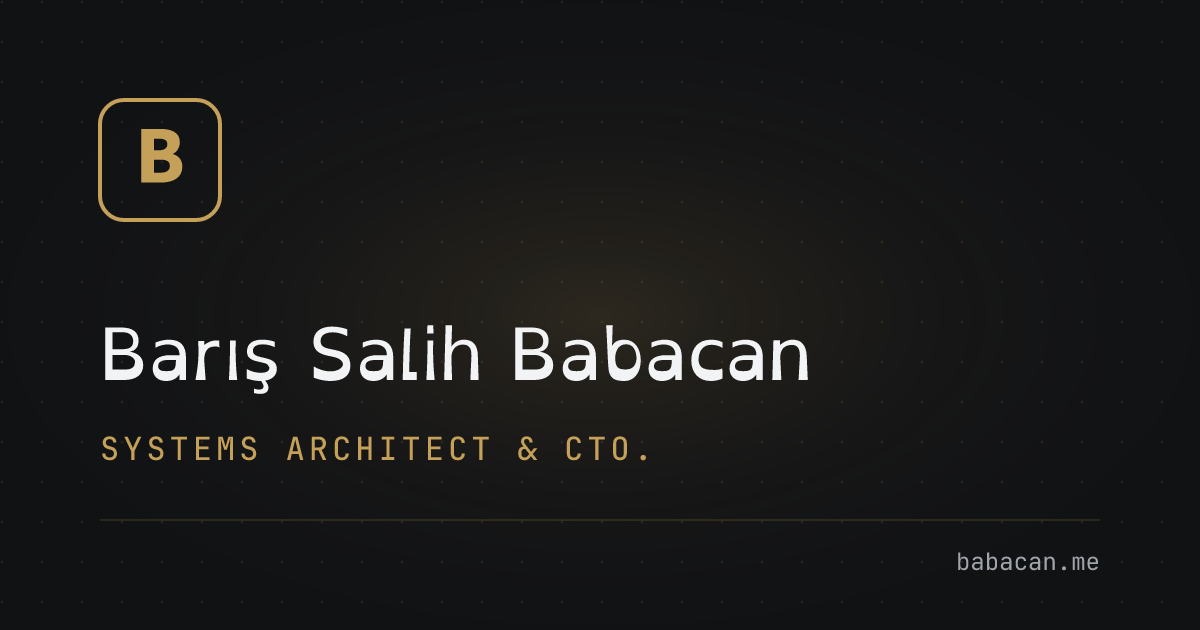
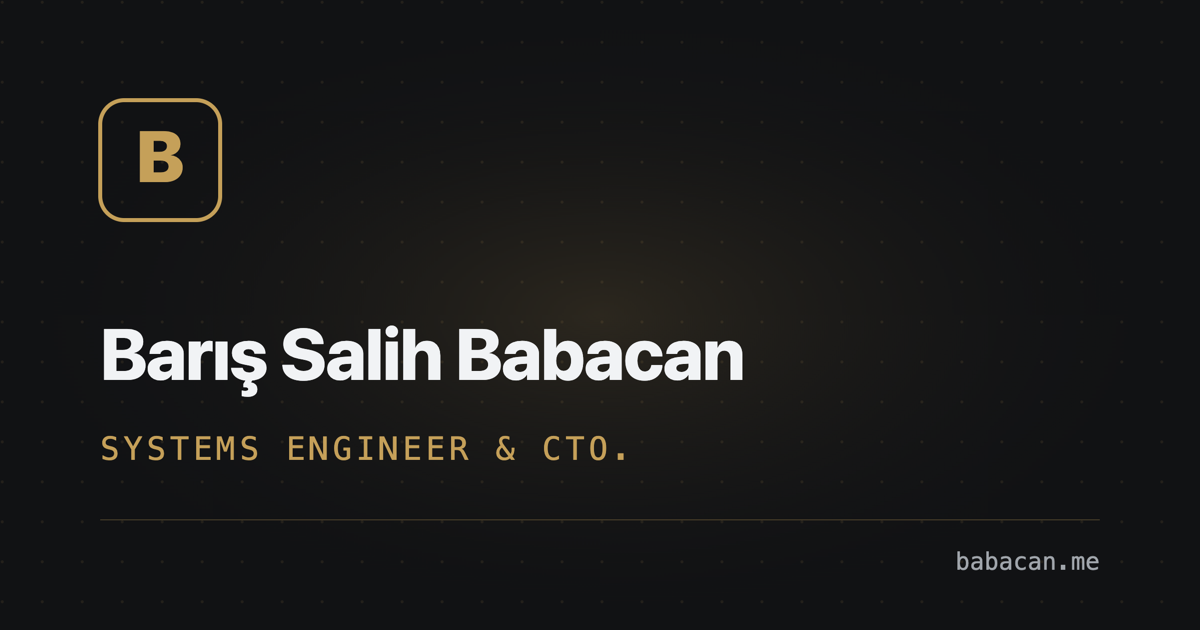
content: align site copy and metadata with the CV
The CV was narrowed three times on 18 Sep (scope, shared credit on +TV,
specific attribution for the Philips work). The site still carried the
claims those edits removed.

- Systems Architect -> Systems Engineer, matching the CV title
- drop "distributed P2P systems" and CRDT claims: the CV states Osmos
  peer-to-peer sync is planned and its transport crate unimplemented
- replace unverifiable hero stats (5+ years, 100% offline-first, P2P)
  with figures the CV supports: 6 shipped products, 3 reverse-engineered
  TV protocols, 120-150 daily users over 3 years, 0 unsafe blocks
- surface protocol reverse engineering, the CV's most distinctive work,
  which the site did not mention at all
- correct the CTO row's stack tags to Swift/SwiftUI/Firebase
- regenerate the social card, which read "SYSTEMS ARCHITECT & CTO"

Claude-Session: https://claude.ai/code/session_014CFco9VVJRnA4MEc93z5uU

diff --git a/src/data/i18nData.ts b/src/data/i18nData.ts
@@ -12,26 +12,26 @@ export const i18nData: I18nNode = {
   },
   seo: {
     title: {
-      en: "Barış Salih Babacan | Systems Architect & CTO Istanbul",
-      tr: "Barış Salih Babacan | Sistem Mimarı & CTO Istanbul",
+      en: "Barış Salih Babacan | Systems Engineer & CTO Istanbul",
+      tr: "Barış Salih Babacan | Sistem Mühendisi & CTO Istanbul",
     },
     description: {
-      en: "Barış Salih Babacan | Systems Architect & CTO in Istanbul. Specializing in distributed P2P systems, offline-first architectures & digital experiences.",
-      tr: "Barış Salih Babacan | İstanbul merkezli Sistem Mimarı & CTO. Dağıtık P2P sistemleri, çevrimdışı-öncelikli mimariler ve dijital deneyimler geliştirir.",
+      en: "Barış Salih Babacan | Systems Engineer and CTO in Istanbul. Local-first infrastructure in Rust, network protocol reverse engineering, and native iOS applications.",
+      tr: "Barış Salih Babacan | İstanbul merkezli Sistem Mühendisi & CTO. Rust ile yerel-öncelikli altyapı, ağ protokolü tersine mühendisliği ve native iOS uygulamaları.",
     },
   },
   hero: {
     roles: {
-      en: "CTO @ Garage.ist · Systems Architect",
-      tr: "Garage.ist CTO'su · Sistem Mimarı",
+      en: "CTO @ Garage.ist · Systems Engineer",
+      tr: "Garage.ist CTO'su · Sistem Mühendisi",
     },
     title: {
       en: 'Barış Salih<br /><em className="text-on-surface-variant font-normal not-italic">Babacan</em>',
       tr: 'Barış Salih<br /><em className="text-on-surface-variant font-normal not-italic">Babacan</em>',
     },
     subtitle: {
-      en: "Systems Architect & CTO. Building distributed P2P systems, resilient offline-first architectures, and interactive digital experiences.",
-      tr: "Sistem Mimarı & CTO. Dağıtık P2P sistemleri, çevrimdışı-öncelikli mimariler ve etkileşimli dijital deneyimler geliştiriyorum.",
+      en: "Systems engineer building local-first infrastructure in Rust. Production work spans embedded systems, network protocol reverse engineering, and native iOS applications.",
+      tr: "Rust ile yerel-öncelikli altyapı geliştiren sistem mühendisi. Üretim deneyimim gömülü sistemler, ağ protokolü tersine mühendisliği ve native iOS uygulamalarını kapsıyor.",
     },
     viewWork: {
       en: "Explore Work →",
@@ -41,23 +41,23 @@ export const i18nData: I18nNode = {
       en: "Contact",
       tr: "İletişim",
     },
-    stat1_val: { en: "5+", tr: "5+" },
-    stat1_lbl: { en: "YEARS EXP.", tr: "YIL DENEYİM" },
-    stat2_val: { en: "10+", tr: "10+" },
-    stat2_lbl: { en: "PROJECTS", tr: "PROJE" },
-    stat3_val: { en: "100%", tr: "%100" },
-    stat3_lbl: { en: "OFFLINE-FIRST", tr: "ÇEVRİMDİŞİ-ÖNCELİKLİ" },
-    stat4_val: { en: "P2P", tr: "P2P" },
-    stat4_lbl: { en: "ARCHITECTURE", tr: "MİMARİ" },
+    stat1_val: { en: "6", tr: "6" },
+    stat1_lbl: { en: "SHIPPED PRODUCTS", tr: "YAYINLANAN ÜRÜN" },
+    stat2_val: { en: "3", tr: "3" },
+    stat2_lbl: { en: "TV PROTOCOLS DECODED", tr: "ÇÖZÜLEN TV PROTOKOLÜ" },
+    stat3_val: { en: "120–150", tr: "120–150" },
+    stat3_lbl: { en: "DAILY USERS · 3 YEARS", tr: "GÜNLÜK KULLANICI · 3 YIL" },
+    stat4_val: { en: "0", tr: "0" },
+    stat4_lbl: { en: "UNSAFE BLOCKS", tr: "UNSAFE BLOK" },
     badge: {
       en: "Available for technical consulting & advisory",
       tr: "Teknik danışmanlık & mentörlük için uygun",
     },
-    titlePrefix: { en: "Systems Architect &", tr: "Sistem Mimarı &" },
+    titlePrefix: { en: "Systems Engineer &", tr: "Sistem Mühendisi &" },
     titleSuffix: { en: "Developer", tr: "Geliştirici" },
     subTitle: {
-      en: "CTO @ Garage.ist. Building resilient, offline-first P2P systems, high-throughput backend pipelines, and interactive digital narrative experiences.",
-      tr: "Garage.ist CTO'su. Dayanıklı, çevrimdışı-öncelikli P2P sistemler, yüksek verimli arka uç veri hatları ve etkileşimli dijital anlatı deneyimleri geliştiriyorum.",
+      en: "CTO @ Garage.ist. Shipping native iOS applications, reverse-engineering network protocols, and building local-first engines in Rust.",
+      tr: "Garage.ist CTO'su. Native iOS uygulamaları yayınlıyor, ağ protokollerini tersine mühendislikle çözüyor ve Rust ile yerel-öncelikli motorlar geliştiriyorum.",
     },
     downloadCV: { en: "Download CV", tr: "CV İndir" },
     exploreProjects: { en: "Explore Systems", tr: "Sistemleri İncele" },
@@ -72,38 +72,38 @@ export const i18nData: I18nNode = {
       tr: "Teknik Liderlik & CTO",
     },
     item1_desc: {
-      en: "Orchestrating system architecture, technology stack selection, and product engineering teams at Garage.ist.",
-      tr: "Garage.ist bünyesinde sistem mimarisi, teknoloji yığını seçimi ve ürün mühendisliği ekiplerini yönetiyorum.",
+      en: "Leading a two-developer team at Garage.ist: system architecture, stack decisions, and review discipline enforced through CI that blocks direct pushes to main.",
+      tr: "Garage.ist'te iki kişilik geliştirici ekibini yönetiyorum: sistem mimarisi, teknoloji seçimleri ve main dalına doğrudan push'u engelleyen CI ile işletilen code review disiplini.",
     },
     item2_title: {
       en: "Systems Programming & Rust",
       tr: "Sistem Programlama & Rust",
     },
     item2_desc: {
-      en: "Building memory-safe, low-latency, and high-performance native engines using Rust, Go, and C++.",
-      tr: "Rust, Go ve C++ kullanarak bellek güvenli, düşük gecikmeli ve yüksek performanslı çekirdek motorlar geliştiriyorum.",
+      en: "Building memory-safe native engines in Rust, Go and C++ — content-addressable storage keyed by BLAKE3, SQLite-backed indexes, and Unix-socket daemons.",
+      tr: "Rust, Go ve C++ ile bellek-güvenli native motorlar geliştiriyorum — BLAKE3 ile içerik-adresli depolama, SQLite tabanlı indeksler ve Unix soket servisleri.",
     },
     item3_title: {
-      en: "Local-First & P2P Protocols",
-      tr: "Çevrimdışı-Öncelikli & P2P Protokolleri",
+      en: "Local-First Engines",
+      tr: "Yerel-Öncelikli Motorlar",
     },
     item3_desc: {
-      en: "Designing conflict-free data structures (CRDTs) and local network synchronization algorithms for data sovereignty.",
-      tr: "Veri egemenliği için çakışmasız veri yapıları (CRDT'ler) ve yerel ağ senkronizasyon algoritmaları tasarlıyorum.",
+      en: "Osmos, a version control engine written as a three-crate Rust workspace with <strong>zero unsafe blocks</strong>; Mythos, a manuscript engine exposing 13 JSON-RPC methods across 82 tests.",
+      tr: "Osmos: üç crate'lik Rust workspace olarak yazılmış, <strong>sıfır unsafe blok</strong> içeren sürüm kontrol motoru. Mythos: 13 JSON-RPC metodu sunan, 82 testli manuscript motoru.",
     },
     item4_title: {
-      en: "Narrative & Systems Design",
-      tr: "Anlatı & Sistem Tasarımı",
+      en: "Protocol Reverse Engineering",
+      tr: "Protokol Tersine Mühendisliği",
     },
     item4_desc: {
-      en: "Architecting interactive worldbuilding tools, storytelling engines, and complex world logic.",
-      tr: "Etkileşimli dünya inşası araçları, hikaye anlatım motorları ve karmaşık kurgusal dünya mantıkları tasarlıyorum.",
+      en: "Decoded the control interfaces of Samsung (Tizen), LG (webOS) and Philips televisions off the wire: HTTP Digest auth over a 401 challenge–response flow, PIN pairing as an explicit state machine, and TLS for self-signed certificates.",
+      tr: "Samsung (Tizen), LG (webOS) ve Philips televizyonların kontrol arayüzlerini ağ trafiği üzerinden çözdüm: 401 challenge–response akışıyla HTTP Digest kimlik doğrulama, durum makinesi olarak PIN eşleştirme ve kendinden imzalı sertifikalar için TLS.",
     },
     tags: {
       localFirst: { en: "Local-First", tr: "Yerel-Öncelikli" },
-      worldbuilding: { en: "Worldbuilding", tr: "Dünya İnşası" },
-      lore: { en: "Lore & Narrative", tr: "Anlatı" },
-      systemsDesign: { en: "Systems Design", tr: "Sistem Tasarımı" },
+      wireshark: { en: "Wireshark", tr: "Wireshark" },
+      httpDigest: { en: "HTTP Digest", tr: "HTTP Digest" },
+      tls: { en: "TLS", tr: "TLS" },
     },
     garage: {
       role: { en: "CTO & Lead Developer", tr: "CTO & Baş Geliştirici" },

diff --git a/src/index.html b/src/index.html
@@ -18,16 +18,16 @@
 
     <meta charset="UTF-8" />
     <meta name="viewport" content="width=device-width, initial-scale=1.0" />
-    <title>Barış Salih Babacan | Systems Architect &amp; CTO Istanbul</title>
+    <title>Barış Salih Babacan | Systems Engineer &amp; CTO Istanbul</title>
 
     <!-- SEO Meta Tags -->
     <meta
       name="description"
-      content="Barış Salih Babacan | Systems Architect &amp; CTO in Istanbul. Specializing in distributed P2P systems, offline-first architectures &amp; digital experiences."
+      content="Barış Salih Babacan | Systems Engineer &amp; CTO in Istanbul. Local-first infrastructure in Rust, network protocol reverse engineering, and native iOS applications."
     />
     <meta
       name="keywords"
-      content="Barış Salih Babacan, Systems Architect, CTO, Rust, P2P, Distributed Systems, Local-First, Istanbul"
+      content="Barış Salih Babacan, Systems Engineer, CTO, Rust, Swift, Local-First, Reverse Engineering, Istanbul"
     />
     <meta name="author" content="Barış Salih Babacan" />
     <meta name="theme-color" content="#111214" />
@@ -50,13 +50,10 @@
     <!-- Open Graph / Facebook -->
     <meta property="og:type" content="website" />
     <meta property="og:url" content="https://babacan.me/en" />
-    <meta
-      property="og:title"
-      content="Barış Salih Babacan | Systems Architect &amp; CTO Istanbul"
-    />
+    <meta property="og:title" content="Barış Salih Babacan | Systems Engineer &amp; CTO Istanbul" />
     <meta
       property="og:description"
-      content="Barış Salih Babacan | Systems Architect &amp; CTO in Istanbul. Specializing in distributed P2P systems, offline-first architectures &amp; digital experiences."
+      content="Barış Salih Babacan | Systems Engineer &amp; CTO in Istanbul. Local-first infrastructure in Rust, network protocol reverse engineering, and native iOS applications."
     />
     <meta property="og:image" content="https://babacan.me/og-image.png" />
     <meta property="og:locale" content="en_US" />
@@ -66,11 +63,11 @@
     <meta name="twitter:url" content="https://babacan.me/en" />
     <meta
       name="twitter:title"
-      content="Barış Salih Babacan | Systems Architect &amp; CTO Istanbul"
+      content="Barış Salih Babacan | Systems Engineer &amp; CTO Istanbul"
     />
     <meta
       name="twitter:description"
-      content="Barış Salih Babacan | Systems Architect &amp; CTO in Istanbul. Specializing in distributed P2P systems, offline-first architectures &amp; digital experiences."
+      content="Barış Salih Babacan | Systems Engineer &amp; CTO in Istanbul. Local-first infrastructure in Rust, network protocol reverse engineering, and native iOS applications."
     />
     <meta name="twitter:image" content="https://babacan.me/og-image.png" />
 
@@ -129,13 +126,13 @@
             "@type": "ProfilePage",
             "@id": "https://babacan.me/#profilepage",
             "url": "https://babacan.me",
-            "name": "Barış Salih Babacan — Systems Architect & CTO",
+            "name": "Barış Salih Babacan — Systems Engineer & CTO",
             "mainEntity": {
               "@type": "Person",
               "@id": "https://babacan.me/#person",
               "name": "Barış Salih Babacan",
               "alternateName": ["Barış Babacan", "Barissalih Babacan"],
-              "jobTitle": "Systems Architect & Chief Technology Officer",
+              "jobTitle": "Systems Engineer & Chief Technology Officer",
               "worksFor": {
                 "@type": "Organization",
                 "name": "Garage.ist",
@@ -152,8 +149,8 @@
             "@type": "WebSite",
             "@id": "https://babacan.me/#website",
             "url": "https://babacan.me",
-            "name": "Barış Salih Babacan — Systems Architect & CTO",
-            "description": "Official portfolio and technical architecture platform of Barış Salih Babacan, CTO at Garage.ist and Systems Architect.",
+            "name": "Barış Salih Babacan — Systems Engineer & CTO",
+            "description": "Official portfolio and technical architecture platform of Barış Salih Babacan, CTO at Garage.ist and Systems Engineer.",
             "inLanguage": ["en", "tr"],
             "publisher": {
               "@id": "https://babacan.me/#person"
@@ -195,12 +192,12 @@
           <a href="/sitemap.xml">XML Sitemap</a> |
           <a href="/rss.xml">RSS Feed</a>
         </nav>
-        <h1>Barış Salih Babacan | Systems Architect &amp; CTO Istanbul</h1>
+        <h1>Barış Salih Babacan | Systems Engineer &amp; CTO Istanbul</h1>
         <p>
-          Barış Salih Babacan is an experienced Systems Architect and Chief Technology Officer (CTO)
-          based in Istanbul, Turkey. Specializing in autonomous systems, distributed local-first
-          peer-to-peer (P2P) architectures, resilient offline-first software ecosystems, and
-          high-performance digital experiences.
+          Barış Salih Babacan is a Systems Engineer and Chief Technology Officer (CTO) based in
+          Istanbul, Turkey. Specializing in autonomous systems, distributed local-first peer-to-peer
+          (P2P) architectures, resilient offline-first software ecosystems, and high-performance
+          digital experiences.
         </p>
       </header>
       <main>

diff --git a/src/components/Experience.tsx b/src/components/Experience.tsx
@@ -40,13 +40,13 @@ export default function Experience() {
             ></p>
             <div className="flex flex-wrap gap-2">
               <span className="font-label-mono text-[9px] text-primary/70 border border-primary/20 px-2 py-0.5 uppercase">
-                React
+                Swift
               </span>
               <span className="font-label-mono text-[9px] text-primary/70 border border-primary/20 px-2 py-0.5 uppercase">
-                Node.js
+                SwiftUI
               </span>
               <span className="font-label-mono text-[9px] text-primary/70 border border-primary/20 px-2 py-0.5 uppercase">
-                TypeScript
+                Firebase
               </span>
             </div>
           </div>
@@ -88,10 +88,10 @@ export default function Experience() {
             ></p>
             <div className="flex flex-wrap gap-2">
               <span className="font-label-mono text-[9px] text-primary/70 border border-primary/20 px-2 py-0.5 uppercase">
-                CRDT
+                BLAKE3
               </span>
               <span className="font-label-mono text-[9px] text-primary/70 border border-primary/20 px-2 py-0.5 uppercase">
-                P2P
+                SQLite
               </span>
               <span className="font-label-mono text-[9px] text-primary/70 border border-primary/20 px-2 py-0.5 uppercase">
                 {t("experience.tags.localFirst")}
@@ -112,13 +112,13 @@ export default function Experience() {
             ></p>
             <div className="flex flex-wrap gap-2">
               <span className="font-label-mono text-[9px] text-primary/70 border border-primary/20 px-2 py-0.5 uppercase">
-                {t("experience.tags.worldbuilding")}
+                {t("experience.tags.wireshark")}
               </span>
               <span className="font-label-mono text-[9px] text-primary/70 border border-primary/20 px-2 py-0.5 uppercase">
-                {t("experience.tags.lore")}
+                {t("experience.tags.httpDigest")}
               </span>
               <span className="font-label-mono text-[9px] text-primary/70 border border-primary/20 px-2 py-0.5 uppercase">
-                {t("experience.tags.systemsDesign")}
+                {t("experience.tags.tls")}
               </span>
             </div>
           </div>

diff --git a/src/components/JsonLd.tsx b/src/components/JsonLd.tsx
@@ -16,7 +16,7 @@ export default function JsonLd({ lang, selectedProjectSlug }: JsonLdProps) {
     "@id": `${baseUrl}/#person`,
     name: "Barış Salih Babacan",
     alternateName: ["Barış Babacan", "Barissalih Babacan"],
-    jobTitle: "Systems Architect & Chief Technology Officer",
+    jobTitle: "Systems Engineer & Chief Technology Officer",
     worksFor: {
       "@type": "Organization",
       name: "Garage.ist",
@@ -32,9 +32,9 @@ export default function JsonLd({ lang, selectedProjectSlug }: JsonLdProps) {
       "https://thesinsofthefathers.com",
     ],
     knowsAbout: [
-      "Distributed P2P Systems",
+      "Local-First Storage Engines",
       "Offline-First Software Architecture",
-      "Systems Architecture",
+      "Network Protocol Reverse Engineering",
       "Rust Systems Programming",
       "Go (Golang)",
       "React 19 & TypeScript",
@@ -49,9 +49,9 @@ export default function JsonLd({ lang, selectedProjectSlug }: JsonLdProps) {
     "@type": "WebSite",
     "@id": `${baseUrl}/#website`,
     url: baseUrl,
-    name: "Barış Salih Babacan — Systems Architect & CTO",
+    name: "Barış Salih Babacan — Systems Engineer & CTO",
     description:
-      "Official portfolio and technical architecture platform of Barış Salih Babacan, CTO at Garage.ist and Systems Architect.",
+      "Official portfolio and technical architecture platform of Barış Salih Babacan, CTO at Garage.ist and Systems Engineer.",
     inLanguage: ["en", "tr"],
     publisher: {
       "@id": `${baseUrl}/#person`,
